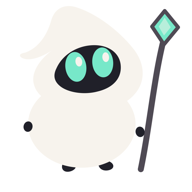
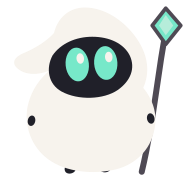
feat: round Una into a hooded blob

diff --git a/test/app-ui.test.ts b/test/app-ui.test.ts
@@ -63,18 +63,18 @@ describe("meme index product UI", () => {
   });
 
   it("keeps Una eye-first at icon scale", () => {
-    expect(mascot).toContain('rx="14" ry="20"');
-    expect(mascot).toContain('rx="4.5" ry="6.5"');
+    expect(mascot).toContain('rx="15.5" ry="22.5"');
+    expect(mascot).toContain('rx="5" ry="7"');
     expect(mascot).not.toContain('rx="9" ry="13"');
   });
 
-  it("keeps Una a simple light blob with a pronounced hood, tiny limbs, and an oversized staff", () => {
+  it("keeps Una one near-circular hooded blob with no neck, tiny limbs, and an oversized staff", () => {
+    expect(mascot).toContain("near-circular hooded light blob with no neck");
     expect(mascot).toContain("tiny hands and feet");
-    expect(mascot).toContain('rx="72" ry="58"');
-    expect(mascot).toContain("M33 70c17-6 29-22 35-43");
-    expect(mascot).toContain("M86 215c-4 4-5 10-1 13");
-    expect(mascot).toContain("m220 14 18 22-19 23-16-24 17-21Z");
-    expect(mascot).not.toContain("M43 56c13-4 20-14 25-29");
+    expect(mascot).toContain("M72 44C77 23 93 10 113 10");
+    expect(mascot).toContain("M89 219c-3 3-4 8-1 11");
+    expect(mascot).toContain("m221 11 20 23-20 25-18-25 18-23Z");
+    expect(mascot).not.toContain('ellipse cx="109" cy="166"');
   });
 
   it("keeps the launch surface Robinhood-specific while preserving self-custody", () => {
